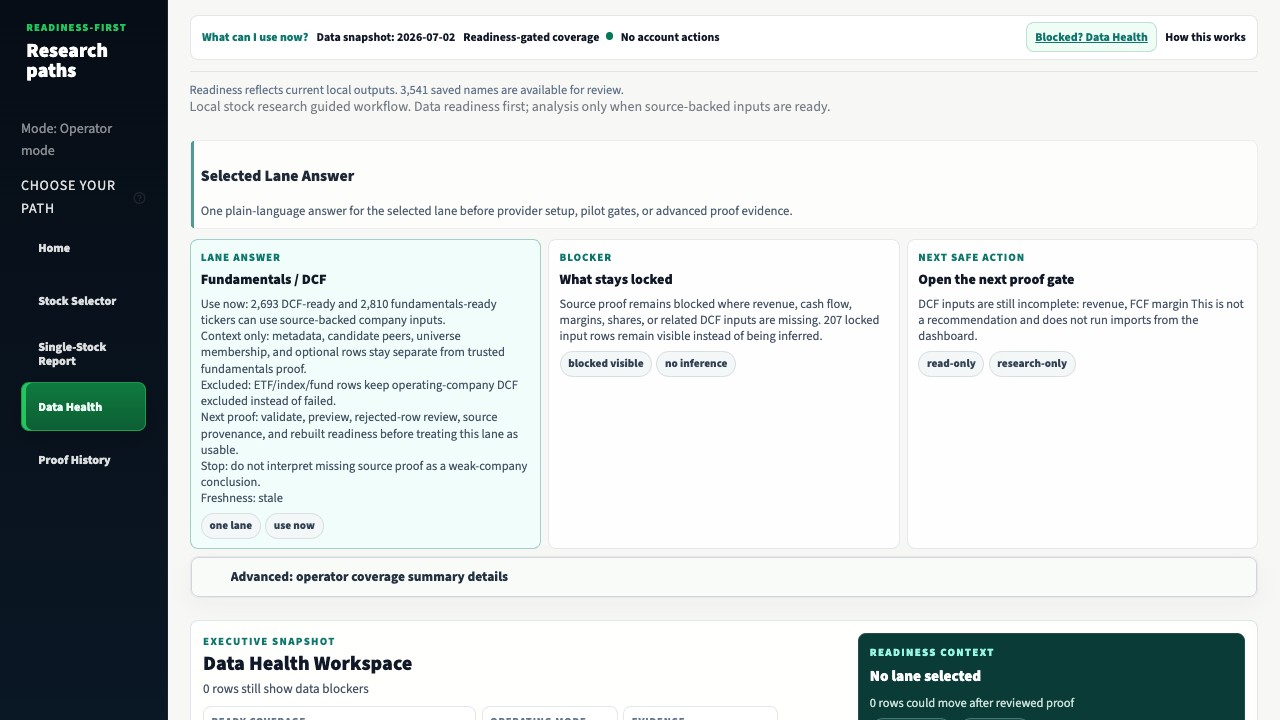
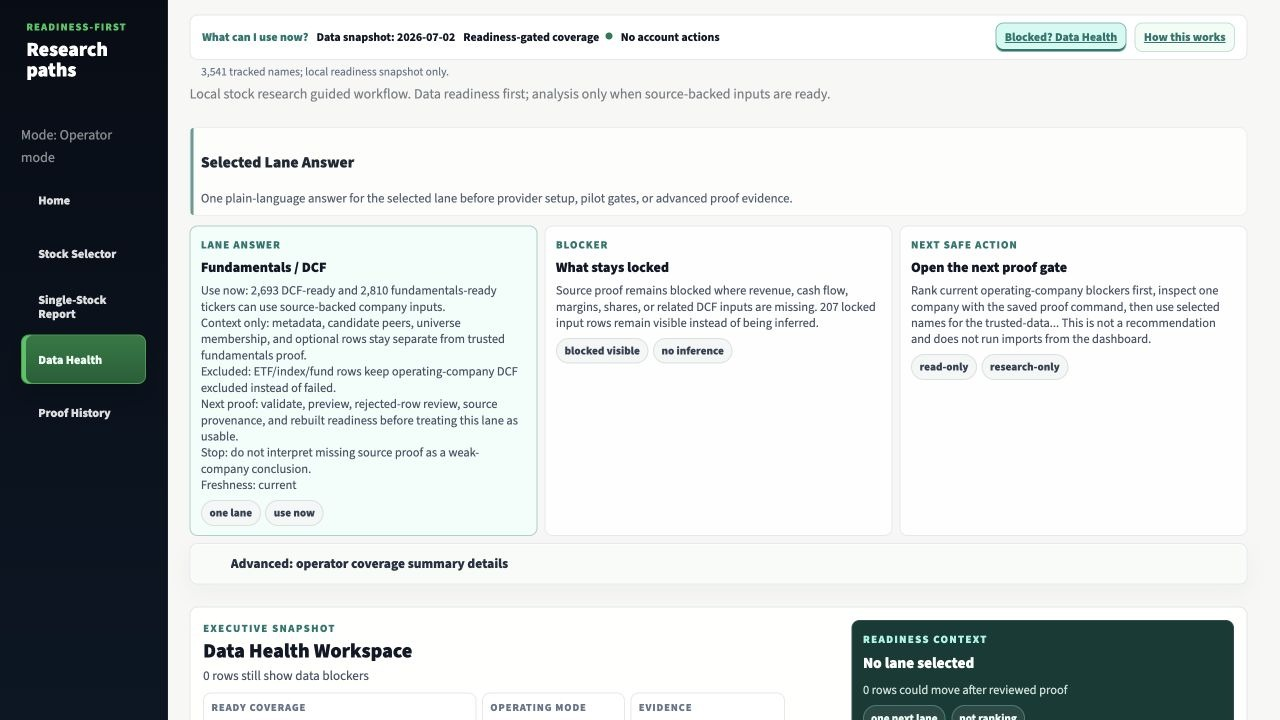
Refresh public browser QA screenshot evidence

diff --git a/src/browser_qa_evidence.py b/src/browser_qa_evidence.py
@@ -63,7 +63,7 @@ DEFAULT_BROWSER_QA_EVIDENCE: tuple[BrowserQaEvidence, ...] = (
         name="Operator metrics lane screenshot",
         path=Path("docs/assets/operator-data-health-metrics-real.jpg"),
         route="http://localhost:8501/?mode=operator&page=data-health&lane=metrics&drawer=metrics",
-        expected_markers=("research-loop-strip", "ops-mode-strip", "Operator Queue", "Review details"),
+        expected_markers=("research-loop-strip", "ops-mode-strip", "Selected Lane Answer", "Metrics", "Data Health Workspace"),
         min_width=1000,
         min_height=600,
         use="Operator-mode proof that Data Health stays readiness-gated and copy-only.",
@@ -156,8 +156,8 @@ DEFAULT_BROWSER_QA_ROUTE_CHECKS: tuple[BrowserQaRouteCheck, ...] = (
     BrowserQaRouteCheck(
         name="Data Health metrics review",
         route="http://localhost:8501/?mode=operator&page=data-health&lane=metrics&drawer=metrics",
-        first_view_markers=("research-loop-strip", "ops-mode-strip", "Operator Queue", "Review details"),
-        details_boundary="Metric evidence stays readiness-gated; details appear only after the metrics review route is selected.",
+        first_view_markers=("research-loop-strip", "ops-mode-strip", "Selected Lane Answer", "Metrics", "Data Health Workspace"),
+        details_boundary="Metric evidence stays readiness-gated; advanced details appear only after the metrics review route is selected.",
         qa_focus="SPY/QQQ review metrics remain historical review context with ready, partial, blocked, or excluded states.",
         stop_rule="Stop if Sharpe, Sortino, beta, drawdown, trend, multiples, or peer dispersion appear as rankings or instructions.",
     ),

diff --git a/tests/test_browser_qa_evidence.py b/tests/test_browser_qa_evidence.py
@@ -388,6 +388,8 @@ def test_browser_qa_evidence_payload_is_machine_readable_and_research_safe(tmp_p
     assert len(payload["route_qa_checklist"]) >= 7
     assert "browser qa evidence is product evidence only" in rendered
     assert "first 30 seconds" in rendered
+    assert "data health workspace" in rendered
+    assert "selected lane answer" in rendered
     assert "single-stock workflow fit screenshot" in rendered
     assert "what can be read now" in rendered
     assert "selected ticker" in rendered
